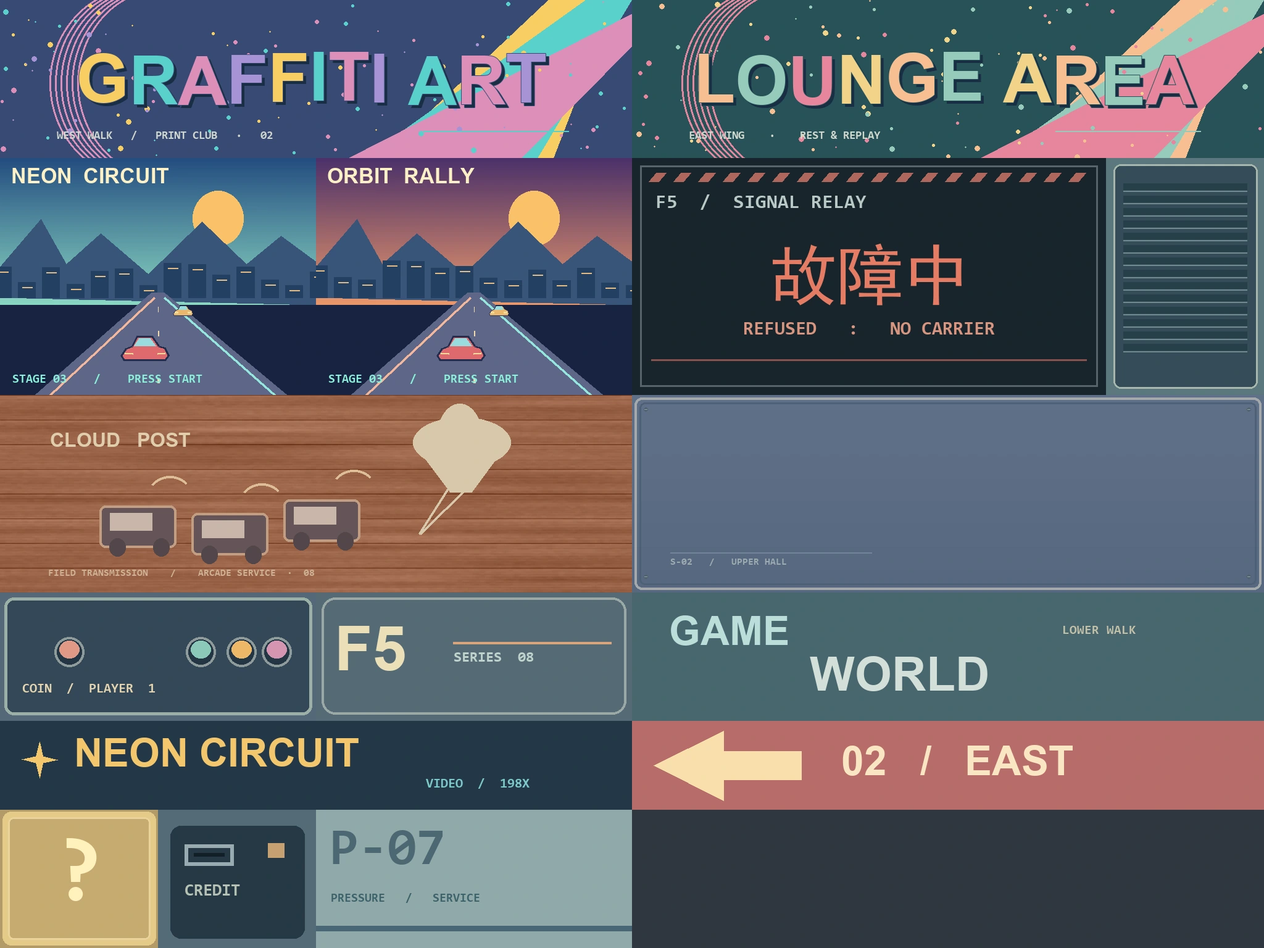
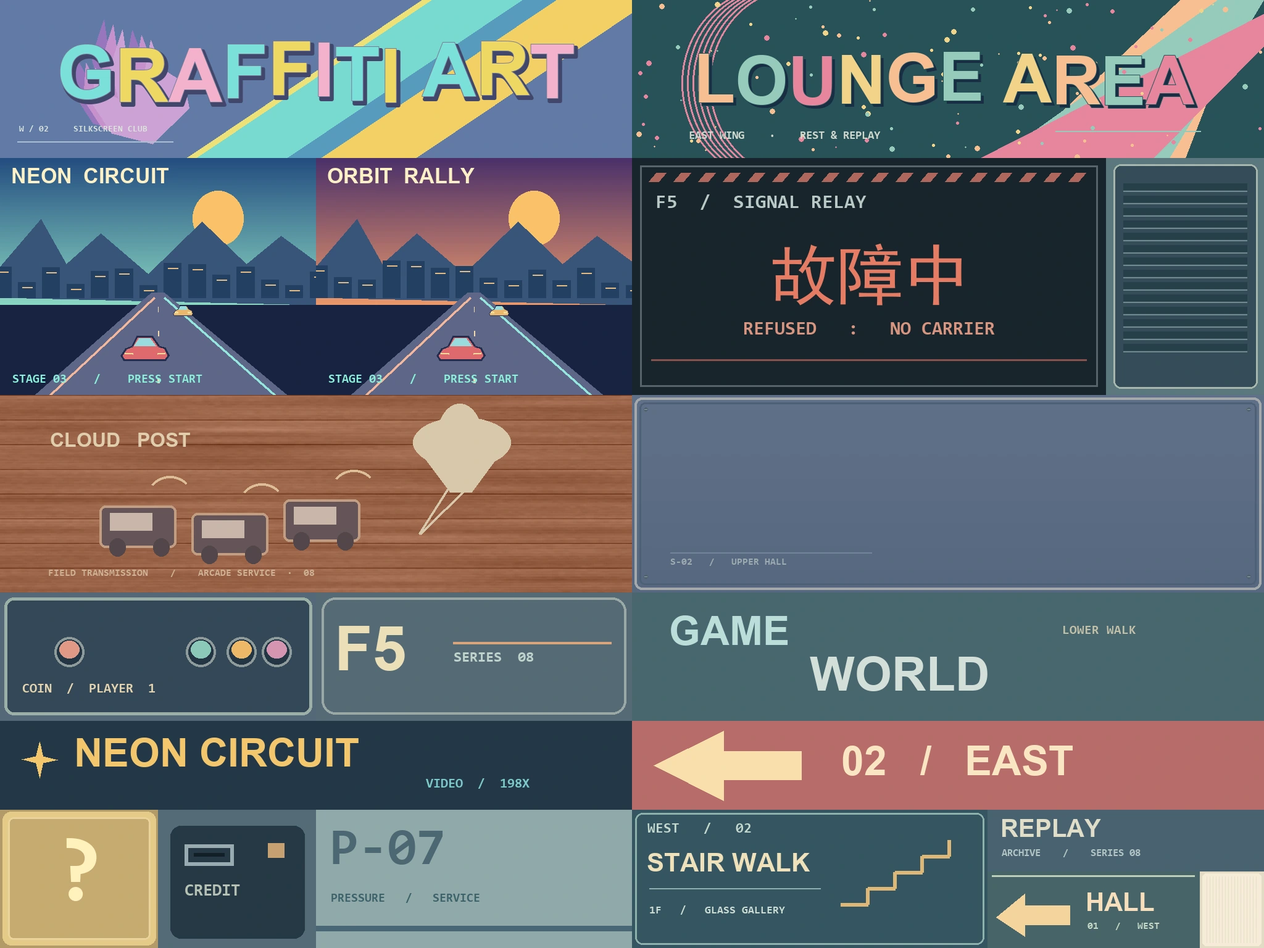
Rebuild the arcade west passage and window lane around the walkable stair

Changed region(s): [[0.0, 0.0, 0.5, 0.1875], [0.5, 0.8438, 1.0, 1.0]]

diff --git a/src/mmdVrShowcase/scenery/arcade/westGallery.ts b/src/mmdVrShowcase/scenery/arcade/westGallery.ts
@@ -1,0 +1,70 @@
+// The red passage is under the sign; the display windows face the return
+// lane on the far side of the stair. Keep the turn at the foot of the stair open.
+type Piece={x:number;y:number;z:number;w:number;h:number;d:number;ink:string;tag:string;roll?:number};
+const solids:Piece[]=[],skins:Piece[]=[];
+const box=(list:Piece[],tag:string,x:number,y:number,z:number,w:number,h:number,d:number,ink:string,roll=0)=>list.push({tag,x,y,z,w,h,d,ink,roll});
+const body=(tag:string,x:number,y:number,z:number,w:number,h:number,d:number,ink:string)=>box(solids,tag,x,y,z,w,h,d,ink);
+const edge=(x:number,y:number,z:number,w:number,h:number,d:number,ink:string,roll=0)=>box(skins,'trim',x,y,z,w,h,d,ink,roll);
+
+const enamel='#b96358',lip='#cf806a',blue='#527486',steel='#454f61';
+export const lastRiser={x:10.255,z:1.50,w:1.97};
+export const gallerySign={x:9.30,y:3.93,z:6.32,w:3.50,h:1.12,d:.18};
+const s=gallerySign;
+body('west-sign',s.x,s.y,s.z,s.w,s.h,s.d,'#505771');
+for(const x of [7.80,10.80])edge(x,3.46,6.23,.10,.57,.17,steel);
+
+body('west-spine',11.11,1.57,4.06,.26,3.14,5.2,'#568082');
+body('west-transom',12.66,2.783,1.66,2.65,.766,.16,'#536a75');
+// Use the tall back face of the top step as a service panel. The actual
+// path turns at its left edge towards the side doors; no false door here.
+edge(lastRiser.x,1.55,1.526,1.75,2.78,.045,'#4b626c');
+edge(lastRiser.x,1.54,1.555,1.57,2.60,.023,'#72908a');
+for(const x of [9.57,10.94])edge(x,1.50,1.575,.035,2.42,.025,'#95a79a');
+for(const z of [5.48,2.37]){
+  for(const [x,side] of [[7.29,1],[10.87,-1]]){
+    body('west-portal',x,1.28,z,.19,2.56,.26,enamel);
+    body('west-shoe',x,.115,z,.31,.23,.39,'#a25c55');
+    edge(x,1.38,z+.135,.112,2.25,.019,lip);
+    edge(x+side*.137,2.60,z,.13,.44,.24,enamel,-side*Math.PI/4);
+  }
+  body('west-portal',(7.29+10.87)/2,2.84,z,3.77,.56,.26,enamel);
+  edge(9.08,2.60,z+.138,3.38,.047,.021,lip);
+}
+
+// The seat, casing and display depth all take real floor space. Their small
+// fittings stay in the visual batch instead of becoming collision triangles.
+body('west-seat',10.67,.41,4.0,.56,.14,2.0,'#929993');
+for(const z of [3.25,4.75]){body('west-seat-foot',10.70,.18,z,.34,.36,.12,steel);edge(10.88,.49,z,.052,.46,.08,steel);}
+edge(10.89,.73,4.0,.077,.29,2.0,'#9da8a1');
+for(const x of [10.49,10.65,10.81])edge(x,.49,4,.14,.018,1.98,'#b6aaa1');
+export const displays=[-3.21,-1.65,-.09];
+for(const [i,z] of displays.entries()){
+  body('west-vitrine',13.64,1.28,z,.40,2.56,1.54,blue);
+  body('west-plinth',13.33,.15,z,.26,.30,1.53,'#586e76');
+  edge(13.405,.42,z,.082,.76,1.52,'#435d70');
+  edge(13.34,.83,z,.22,.085,1.53,'#95aaa8');edge(13.37,2.34,z,.18,.12,1.53,steel);
+  for(const off of [-.742,.742])edge(13.37,1.58,z+off,.18,1.42,.036,'#859ca1');
+  for(const h of [1.05,1.50])edge(13.32,h,z,.23,.034,1.43,'#859c9b');
+  for(let j=0;j<3;j++){
+    const cz=z-.46+j*.43;
+    edge(13.29,1.20,cz,.15,.26,.29,['#b99c77','#7596a5','#927b88'][(i+j)%3]);
+    edge(13.32,1.64,cz,.16,.24,.23,steel);
+  }
+}
+// Lay in ceiling coffers and recessed opal lights. Viewed from the far
+// doorway the repeating fixtures lead the eye back towards the forecourt.
+export const diffusers:{x:number;y:number;z:number}[]=[];
+for(const [x,start,end,width,ceiling] of [[9.14,1.5,6.65,4.12,3.14],[8.13,-4.5,1.50,2.18,3.14],[12.60,-4.32,4.38,2.64,3.17]]){
+  for(let z=start+.42;z<end;z+=.86)edge(x,ceiling-.032,z,width,.056,.035,steel);
+  for(const t of [-.25,.25])edge(x+width*t,ceiling-.044,(start+end)/2,.033,.062,end-start,steel);
+  for(let z=start+1;z<end-.3;z+=2.56){edge(x,ceiling-.079,z,.55,.082,1.21,'#5c6871');diffusers.push({x,z,y:ceiling-.125});}
+}
+// Printed-metal fascias have a relief chevron rather than a solid beam over the view.
+for(let i=0;i<5;i++){
+  const x=11.42+i*.51;
+  for(const side of [-1,1])edge(x+side*.072,3.26,-4.38,.029,.216,.032,'#a4b8b4',side*-.58);
+}
+// Narrow electrical trunk and service boxes at the turn, clear of the stair landing.
+for(const x of [7.84,8.34]){edge(x,2.08,-5.453,.42,.56,.063,'#455e69');edge(x,2.10,-5.409,.35,.44,.035,'#859b9b');edge(x,1.54,-5.447,.034,.54,.043,'#59727b');}
+edge(8.09,1.28,-5.448,.53,.033,.038,'#59727b');
+export const westGallery={solids,skins};

diff --git a/src/mmdVrShowcase/scenery/arcade/ArcadeHall.tsx b/src/mmdVrShowcase/scenery/arcade/ArcadeHall.tsx
@@ -2,9 +2,10 @@ import {useEffect,useLayoutEffect,useMemo,useRef} from 'react';
 import {BoxGeometry,CanvasTexture,Color,DoubleSide,InstancedMesh,Matrix4,MeshStandardMaterial,SRGBColorSpace} from 'three';
 import {blocks,board,cabinets,opening,skylight,lowerPad,upperPad,UPPER,ROOF,upperFrontZ,lowerFrontZ,frontLip} from './arcadeLayout';
 import {ArcadePrints} from './ArcadePrints';
+import {westGallery} from './westGallery';
 
-type Piece={x:number;y:number;z:number;w:number;h:number;d:number;ink:string};
-const trim:Piece[]=[];
+type Piece={x:number;y:number;z:number;w:number;h:number;d:number;ink:string;roll?:number};
+const trim:Piece[]=[...westGallery.skins];
 const add=(x:number,y:number,z:number,w:number,h:number,d:number,ink:string)=>trim.push({x,y,z,w,h,d,ink});
 // Separate decorative skins from solids. One instance batch for each; all
 // dimensions below are colours and edge profiles, not an extra walking layer.
@@ -27,6 +28,11 @@ const rim=(hole:typeof opening,y:number,ink:string)=>{
 };
 for(const y of [UPPER+.004,UPPER-.275])rim(opening,y,'#eb9978');
 rim(skylight,ROOF-.245,'#c9826e');
+// Return the cladding around the exposed ends of the side walls. Otherwise
+// the plaster and skirting end caps occupy the same Z plane at the corner.
+for(const [z,base,h] of [[lowerFrontZ,0,UPPER-.27],[upperFrontZ,UPPER,ROOF-UPPER-.24]])for(const side of [-1,1]){
+  add(side*7.074,base+h/2,z+.067,.151,h,.193,'#60908c');
+}
 // The front is pale below, blue-grey *above* the floor line; the wood back
 // can be inspected by walking around either end. Both skins share one core.
 add(0,UPPER/2,board.z+.123,board.w-.08,UPPER,.012,'#d0c5ad');
@@ -62,7 +68,6 @@ for(const z of [-2.04,1.87])add(-13.33,1.73,z,.86,.051,1.32,'#d7dac1');
 for(let i=0;i<10;i++)add(-14.54+i*.63,2.67,-5.44,.054,.19,.13,'#446568');
 add(-10.6,.54,-5.44,2.57,2.39,.043,'#4e686e');add(-10.6,.52,-5.407,2.27,2.19,.03,'#778482');
 for(let i=0;i<5;i++)add(-10.6,.07+i*.31,-5.375,2.17,.029,.025,'#607875');
-for(let i=0;i<6;i++)add(12.61,3.00,-3.86+i*1.5,2.63,.16,.11,'#4f626b');
 for(const x of [11.65,13.60])add(x,.69,1.33,.09,.37,.13,'#756d65');
 add(12.62,.81,1.33,2.37,.25,.17,'#94816e');
 for(const x of [-3.8,3.8]){add(x,1.24,12.823,1.76,2.48,.035,'#857f7d');add(x,1.21,12.80,1.50,2.29,.022,'#986f59');}
@@ -77,8 +82,8 @@ function Batch({pieces,solid}:{pieces:readonly Piece[];solid:boolean}){
   const ref=useRef<InstancedMesh>(null);
   const [g,m]=useMemo(()=>[new BoxGeometry(),new MeshStandardMaterial({roughness:.88})] as const,[]);
   useEffect(()=>()=>{g.dispose();m.dispose();},[g,m]);
-  useLayoutEffect(()=>{const im=ref.current!,mat=new Matrix4(),ink=new Color();
-    pieces.forEach((b,i)=>{im.setMatrixAt(i,mat.makeScale(b.w,b.h,b.d).setPosition(b.x,b.y,b.z));im.setColorAt(i,ink.set(b.ink));});
+  useLayoutEffect(()=>{const im=ref.current!,mat=new Matrix4(),rotation=new Matrix4(),ink=new Color();
+    pieces.forEach((b,i)=>{mat.makeScale(b.w,b.h,b.d);if(b.roll)mat.premultiply(rotation.makeRotationZ(b.roll));im.setMatrixAt(i,mat.setPosition(b.x,b.y,b.z));im.setColorAt(i,ink.set(b.ink));});
     im.instanceMatrix.needsUpdate=true;im.instanceColor!.needsUpdate=true;im.computeBoundingSphere();
   },[pieces]);
   return <instancedMesh ref={ref} args={[g,m,pieces.length]} name={solid?'arcade:solids':'arcade:skins'} userData={{playerCollision:solid}} receiveShadow/>;

diff --git a/src/mmdVrShowcase/scenery/arcade/paintedShell.ts b/src/mmdVrShowcase/scenery/arcade/paintedShell.ts
@@ -1,6 +1,7 @@
 import {BufferGeometry,Color,Float32BufferAttribute} from 'three';
 import {blocks,board,cabinets,ROOF,UPPER,skylight,lowerFrontZ,upperFrontZ,cladding} from './arcadeLayout';
 import layout from './printRects.json';
+import {diffusers,displays,gallerySign,lastRiser} from './westGallery';
 
 type V=[number,number,number];type Face={o:V;u:V;v:V};type Rect=readonly number[];
 // Origin at bottom left when viewed from outside. Floor UV axes are +X/-Z.
@@ -51,6 +52,13 @@ export function arcadePaint(){
     if(tag==='east-retaining')tile(xFace(x+w/2+.003,y,z,d,h),3,1.65,3.30);
     if(tag==='west-shelter-back')tile(xFace(x-w/2-.004,y,z,d,h,-1),2,2.23,2.23);
     if(tag==='west-glass')tile(zFace(x,y,z-d/2-.004,w,h,-1),7,2.7,2.4);
+    if(tag==='west-spine')for(const s of [-1,1])tile(xFace(x+s*(w/2+.003),y,z,d,h,s),2,2.38,2.17,s===-1?'#6d9e9b':'#66839a');
+    if(tag==='west-end-wall')tile(zFace(x,y,z+d/2+.004,w,h),2,2.38,2.17,'#82a49e');
+    if(tag==='west-side'||tag==='west-walk'||tag==='west-shelter-roof')tile(deck(x,bot-.003,z,w,d,false),2,1.70,1.72,'#afb5b0');
+    if(tag==='west-step'){
+      tile(zFace(x,top-.085,z-d/2-.003,w,.17,-1),2,2.48,1.70,'#8698a5');
+      for(const side of [-1,1])tile(xFace(x+side*(w/2+.002),y,z,d,h,side),2,2.6,2.2,'#9ab0b4');
+    }
     if(tag==='west-bench')tile(deck(x,top+.006,z,w,d),4,1.65,.83);
     if(tag==='upper-shutter'||tag==='back-shutter')tile(zFace(x,y,z+d/2+.006,w,h),5,2.6,1.13);
   }
@@ -58,8 +66,24 @@ export function arcadePaint(){
   tile(zFace(0,UPPER/2,board.z+.133,board.w-.09,UPPER-.09),2,2.17,3.4);
   art('blueboard',zFace(0,UPPER+.595,board.z+.142,board.w-.15,1.04));
   art('wood',zFace(0,UPPER+.60,board.z-.138,board.w-.13,1.14,-1));
-  art('graffiti',zFace(9.93,UPPER+.53,6.408,2.55,.76));art('lounge',xFace(-12.48,2.09,.10,3.4,.44));
+  const sign=gallerySign;
+  for(const side of [-1,1])art('graffiti',zFace(sign.x,sign.y,sign.z+side*(sign.d/2+.004),sign.w-.09,sign.h-.09,side));
+  art('lounge',xFace(-12.48,2.09,.10,3.4,.44));
   art('direction',zFace(3.93,UPPER+2.44,4.688,1.54,.45));art('game',zFace(12.62,1.54,1.548,2.14,.40,-1));
+  art('game',xFace(10.971,1.50,4.0,1.65,.40,-1));
+  art('vents',zFace(lastRiser.x,1.00,lastRiser.z+.072,1.07,1.12));
+  art('turn',zFace(lastRiser.x,2.21,lastRiser.z+.074,1.35,.46));
+  for(const {x,y,z} of diffusers)art('diffuser',deck(x,y,z,.46,1.1,false),true);
+  art('stairMap',zFace(10.15,1.41,-5.474,2.08,.78));
+  for(const [i,z] of displays.entries()){
+    tile(xFace(13.435,1.59,z,1.46,1.40,-1),7,1.81,1.42,'#8ea1b5');
+    art('service',xFace(13.360,.54,z,1.22,.34,-1));
+    for(let j=0;j<3;j++){
+      const cz=z-.46+j*.43;
+      art((i+j)%2?'racerB':'racerA',xFace(13.210,1.20,cz,.255,.227,-1));
+      art('vents',xFace(13.236,1.635,cz,.20,.19,-1));
+    }
+  }
   for(const [i,b] of cabinets.entries()){
     const {x,y,z,side,style}=b,fault=style==='fault',w=fault?1.13:.66,fx=x+side*.39;
     if(style==='vent'){art('vents',xFace(fx,y+.89,z,.66,1.47,side));continue;}

diff --git a/src/mmdVrShowcase/scenery/arcade/arcadeLayout.ts b/src/mmdVrShowcase/scenery/arcade/arcadeLayout.ts
@@ -1,4 +1,6 @@
-// Prototype dimensions in metres, not measurements from the game. Facing the
+import {westGallery} from './westGallery';
+
+// Stage dimensions in metres, not measurements from the game. Facing the
 // twin front doors from outside, east/LOUNGE is on the left (-X), west on +X.
 export const UPPER = 3.4, ROOF = 6.65;
 // Face the building from +Z. The setback is upstairs only: the strip is
@@ -38,7 +40,8 @@ ring('roof',skylight,ROOF,.24,'#475876',false);
 slab('balcony',-7,7,upperFrontZ,frontLip,UPPER,.27,'#829396');
 slab('west-walk',7,11.25,1.5,frontLip,UPPER,.26,'#708496');
 slab('east-balcony',-8.7,-7,-4.45,frontLip,UPPER,.26,'#738e88');
-for(let i=0;i<20;i++)slab('west-step',9.27,11.24,1.5-(20-i)*.31,1.5-(19-i)*.31,(i+1)*UPPER/20,.18,'#84909d');
+// Solid stair cheek between the covered passage and the blue window lane.
+for(let i=0;i<20;i++)slab('west-step',9.27,11.24,1.5-(20-i)*.31,1.5-(19-i)*.31,(i+1)*UPPER/20,(i+1)*UPPER/20,'#818c99');
 
 // Split every wall at its actual door(s), including the header above each.
 type Axis='x'|'z';
@@ -75,11 +78,10 @@ for(const x of [-2.24,2.24]){
 }
 export const board=block('board',0,0,-1.67,6.57,UPPER+1.22,.24,'#aa957c');
 // Under the sign is a real lower passage; no solid front wall across it.
-block('gallery-post',10.95,0,3.98,.35,UPPER,.42,'#577483');
+boxes.push(...westGallery.solids);
 block('west-glass',12.66,0,1.66,2.65,2.4,.16,'#577785');
 block('west-bench',12.62,0,1.10,2.38,.48,.56,'#8a7970');
-block('west-sign',9.93,UPPER,6.33,2.63,1.02,.14,'#405774');
-block('west-sign-rail',7.78,UPPER,6.32,1.56,.82,.18,'#506b74');
+block('west-sign-rail',7.26,UPPER,6.32,.58,.82,.18,'#506b74');
 block('lounge-kiosk',-14.15,-.68,.10,1.34,3.12,5.72,'#416967');
 block('lounge-canopy',-13.42,1.84,.10,1.72,.20,5.94,'#7ca598');
 block('tank-base',-13.66,2.44,-1.31,1.46,.57,1.68,'#486569');

diff --git a/src/mmdVrShowcase/scenery/arcade/ArcadePrints.tsx b/src/mmdVrShowcase/scenery/arcade/ArcadePrints.tsx
@@ -22,6 +22,15 @@ const hallFinish:MeshStandardMaterial['onBeforeCompile']=shader=>{
     float walls=min(7.-abs(a.x),min(front-a.y,4.5+a.y));contact=max(contact,.19*exp(-max(0.,walls)*3.));
     float shade=(1.-ground)*(.08+.16*(1.-smoothstep(.0,.95,walls)));
     diffuseColor.rgb*=1.-hall*(ground*contact+shade);
+    // Contact colour under the west decks, including when real shadows are
+    // off on Quest. Fade it out at each open end and below the upper walk.
+    float aisle=smoothstep(7.0,7.42,a.x)*(1.-smoothstep(10.96,11.24,a.x))*smoothstep(-4.6,-3.5,a.y)*(1.-smoothstep(5.15,6.65,a.y));
+    float caseLane=smoothstep(11.18,11.68,a.x)*(1.-smoothstep(13.83,14.06,a.x))*smoothstep(-4.5,-3.45,a.y)*(1.-smoothstep(3.05,4.42,a.y));
+    float under=1.-smoothstep(3.18,3.38,arcLocal.y);
+    diffuseColor.rgb*=vec3(1.)-under*(aisle*vec3(.19,.23,.23)+caseLane*vec3(.30,.23,.17));
+    float wallFoot=min(abs(a.x-7.15),abs(a.x-10.98));
+    vec2 bench=max(abs(a-vec2(10.67,4.0))-vec2(.27,.99),vec2(0.));
+    diffuseColor.rgb*=1.-aisle*(1.-smoothstep(.03,.43,arcLocal.y))*max(.26*(1.-smoothstep(.04,.58,wallFoot)),.34*(1.-smoothstep(.02,.72,length(bench))));
     #if NUM_DIR_LIGHT_SHADOWS == 0
       vec2 shaft=abs(a-vec2(1.35,-.45));float day=(1.-smoothstep(2.38,2.82,shaft.x))*(1.-smoothstep(1.06,1.42,shaft.y));
       diffuseColor.rgb*=1.+hall*ground*(.05+day*.27);

diff --git a/src/mmdVrShowcase/scenery/arcade/arcadeLayout.test.ts b/src/mmdVrShowcase/scenery/arcade/arcadeLayout.test.ts
@@ -31,6 +31,17 @@ it('has two independently addressable feet, with different occluders, at the sam
   for(const y of [0,UPPER])expect(visiblePick(room,{x:0,y:y+.92,z:.7},0,y,-3.2)).toBe(false);
 });
 
+it('keeps the passage, inside turn and window bay placeable, with a solid wall and stair between the aisles',()=>{
+  for(const [x,z] of [[9.03,4.08],[8.14,-2.65],[8.18,-4.96],[10.22,-5.02],[12.27,-2.42]])expect(arcadePlace(x,0,z),`${x},${z}`).toBe(true);
+  expect(arcadePlace(10.66,0,4.0)).toBe(false); // corridor bench
+  expect(arcadePlace(10.2,0,-.1)).toBe(false); // stair cheek, not an underpass
+  expect(arcadePlace(13.65,0,-1.65)).toBe(false);
+  expect(arcadePlace(13.15,0,-1.65)).toBe(false); // heel would clip the projecting display shelf
+  expect(arcadeSight({x:8.16,y:1.65,z:-2.8},8.16,0,-4.95)).toBe(true);
+  expect(arcadeSight({x:8.16,y:1.65,z:-.1},12.27,0,-.1)).toBe(false);
+  expect(arcadeSight({x:9,y:1.65,z:4},12.20,0,4)).toBe(false);
+});
+
 it('passes through the aperture, keeps a marginal foot supported, then falls only after leaving the lip',()=>{
   const root=new Group(),mesh=new InstancedMesh(new BoxGeometry(),new MeshBasicMaterial(),blocks.length);
   blocks.forEach((b,i)=>mesh.setMatrixAt(i,new Matrix4().makeScale(b.w,b.h,b.d).setPosition(b.x,b.y,b.z)));root.add(mesh);

diff --git a/src/i18n/en.ts b/src/i18n/en.ts
@@ -4,6 +4,7 @@ import type { ZhMessages } from "./zh";
 export const en: Record<keyof ZhMessages, string> = {
   arcPrintConsole:'Close-up · racing cabinets',arcPrintMural:'Close-up · timber mural',
   arcFrontWalk:'Upper door · looking along the front walk',
+  arcWestPortal:'West walk · under the print sign',arcWestStair:'West walk · windows and stair',
   chamberWheel:'Wheel and pillory gallery',chamberTown:'Dusk over the belfry',planetTransit:'Copper transit dome',planetSouth:'Southern beacon and moons',
   hudVelvetStudio:'Black Velvet Studio',velvetPortrait:'Velvet portrait mark',velvetLounge:'Chaise and dressing room',
   hudMedievalChamber:'Medieval Interrogation Chamber',chamberRecord:'At the clerk’s table',chamberVault:'Under the stone vault',

diff --git a/src/i18n/zh.ts b/src/i18n/zh.ts
@@ -2,6 +2,7 @@
 export const zh = {
   arcPrintConsole:'近看 · 双机台面',arcPrintMural:'近看 · 木板喷绘',
   arcFrontWalk:'二楼 · 沿正门平台望西',
+  arcWestPortal:'西廊 · 从涂鸦牌下进门',arcWestStair:'西廊 · 从橱窗回望外梯',
   chamberWheel:'刑轮与示众枷',chamberTown:'窗下看暮色钟楼',planetTransit:'铜穹观测站',planetSouth:'南极信标与远月',
   hudVelvetStudio:'黑绒私摄棚',velvetPortrait:'黑绒幕前人像',velvetLounge:'卧榻与更衣间',
   hudMedievalChamber:'中世纪刑讯室',chamberRecord:'书记案旁',chamberVault:'石拱审讯厅',

diff --git a/src/mmdVrShowcase/scenery/arcade/arcadeViews.ts b/src/mmdVrShowcase/scenery/arcade/arcadeViews.ts
@@ -18,4 +18,6 @@ export const arcadeView={entry:[[1.66,4.68,12.64],[0,3.04,frontLip-.46]],shots:[
   {key:'arcPrintConsole',eye:[4.89,UPPER+1.52,.57],aim:[6.08,UPPER+1.16,-.20]},
   {key:'arcPrintMural',eye:[-1.92,UPPER+1.48,-3.62],aim:[.09,UPPER+.63,-1.85]},
   {key:'arcFrontWalk',eye:[-6.42,UPPER+1.54,frontLip-.51],aim:[3.76,UPPER+.83,upperFrontZ+.78]},
+  {key:'arcWestPortal',eye:[9.10,1.65,11.90],aim:[8.85,2.26,4.10]},
+  {key:'arcWestStair',eye:[11.94,1.65,-5.04],aim:[10.88,1.72,-.16]},
 ]} as const;

diff --git a/src/mmdVrShowcase/scenery/arcade/bakePrints.py b/src/mmdVrShowcase/scenery/arcade/bakePrints.py
@@ -132,6 +132,26 @@ p,d=art('direction',(1024,1168,1024,144),'#b76c69');d.polygon([(35,72),(148,16),
 p,d=art('coin',(0,1312,256,224),'#b39b68');pill(d,(4,3,252,219),14,'#e4cb89');d.rounded_rectangle((13,12,243,210),9,fill='#c7ab70',outline='#ead39a',width=3);put(d,(128,111),'?',145,'#fff1be',True,mono=True,anchor='mm');paste('coin',p)
 p,d=art('coinPort',(256,1312,256,224),'#536b78');pill(d,(20,26,237,208),17,'#263946');d.rectangle((43,56,122,90),outline='#9aabb0',width=6);d.line((58,72,107,72),fill='#101f28',width=6);put(d,(43,118),'CREDIT',28,'#b6c1b3',True,mono=True);d.rectangle((178,54,204,77),fill='#c7a073');paste('coinPort',p)
 p,d=art('tank',(512,1312,512,224),'#91a9a9');d.line((0,192,512,192),fill='#496775',width=9);put(d,(22,24),'P-07',85,'#4c6772',True,mono=True);put(d,(24,134),'PRESSURE   /   SERVICE',20,'#3d626b',mono=True);paste('tank',p)
+# Sun-faded print with a curling ink plume and diagonal ribbons; draw the
+# face at its installed aspect ratio. The other side reads from the stair.
+p,d=art('graffiti',(0,0,1024,256),'#617ba6')
+for j,(shift,col) in enumerate([(0,'#eee178'),(16,'#78d9cf'),(163,'#589bbd'),(218,'#f3cf64')]):
+    x=302+shift;d.polygon([(x,256),(x+153,256),(x+534,0),(x+381,0)],fill=col)
+for j,col in enumerate(['#9976bd','#c591cd','#cda2d5']):
+    x=132+j*15;y=24+j*8;d.polygon([(x+85,y+193),(x+19,y+176),(x-12,y+129),(x-8,y+70),(x+15,y+113),(x+30,y+120),(x+16,y+69),(x+36,y+8),(x+45,y+71),(x+69,y+92),(x+82,y+25),(x+99,y+70),(x+136,y+94),(x+144,y+135)],fill=col)
+f=font(121,True);title='GRAFFITI ART';xx=(1024-f.getlength(title))/2
+for j,ch in enumerate(title):
+    yy=160+6*sin(j*1.13);d.text((xx+4,yy+5),ch,font=f,anchor='ls',fill='#41476b',stroke_width=3,stroke_fill='#41476b');d.text((xx,yy),ch,font=f,anchor='ls',fill=['#7be0da','#efd862','#f3b2cd'][j%3],stroke_width=1,stroke_fill='#767a99');xx+=f.getlength(ch)
+d.line((28,229,280,229),fill='#abbfd0',width=2);put(d,(31,202),'W / 02     SILKSCREEN CLUB',14,'#dce5dd',mono=True);paste('graffiti',p)
+p,d=art('stairMap',(1024,1312,576,224),'#365561');d.rounded_rectangle((5,5,570,218),12,outline='#8bb1ac',width=3);put(d,(25,19),'WEST   /   02',23,'#c4d9ce',mono=True);put(d,(24,61),'STAIR WALK',42,'#efe1bc',True)
+for i in range(4):
+    x=338+i*44;y=153-i*26;d.line((x,y,x+44,y,x+44,y-26),fill='#dfb777',width=6)
+d.line((28,127,305,127),fill='#8bb1ac',width=2);put(d,(28,154),'1F   /   GLASS GALLERY',18,'#ccddd5',mono=True);paste('stairMap',p)
+p,d=art('service',(1600,1312,448,100),'#496271');put(d,(21,7),'REPLAY',40,'#e0ddc8',True);put(d,(23,62),'ARCHIVE    /    SERIES 08',17,'#b3c5c5',mono=True);paste('service',p)
+p,d=art('turn',(1600,1412,344,124),'#486469');d.line((7,7,335,7),fill='#bdcfba',width=3);d.polygon([(14,74),(60,36),(60,55),(133,55),(133,86),(60,86),(60,105)],fill='#f5d49c');put(d,(159,25),'HALL',42,'#f7dfbc',True);put(d,(162,81),'01   /   WEST',16,'#c9dac8',mono=True);paste('turn',p)
+p,d=art('diffuser',(1944,1412,104,124),'#e3dbc5');d.rounded_rectangle((4,3,99,120),6,fill='#f5ebd7');
+for x in range(11,95,5):d.line((x,8,x,115),fill='#e7dec9',width=1)
+paste('diffuser',p)
 # Crop unused rows; use padding between sheets in the runtime UVs.
 sheet=sheet.crop((0,0,2048,1536));sheet.save(out/'hall-lettering.webp',quality=93,method=6)
 import json

diff --git a/docs/scenery/arcade-hall.md b/docs/scenery/arcade-hall.md
@@ -9,9 +9,15 @@
 - **从洞口换层**：屏幕选「游览机位 → 一楼 · 洞口通行标记」，点一下画面，按 **G**；VR 普通模式用左杆走进板旁黄框，按**左手 X**。再按一次可从上层黄框下去。出口或路径被挡住时不能换层。右手 A 仍是普通跳跃。
 - **沿外侧往返**：面对正门，左边是带条纹雨棚和球罐的东侧休息区，右边是涂鸦招牌、玻璃廊和西侧外梯。从外梯上楼可一路横走到东端。二楼正门前平台净宽约 **2 米**，一楼双门外墙与平台外沿齐平，平台下方也是大厅。[正面与平台纵向实景](./arcade-front-walk.webp)
 - **摆放角色**：从背包选择角色或物件，指向你实际看得见的地面，点击或松开扳机。上下层可以在相同平面坐标各放一件，不能隔着楼板或大板摆放。透过洞口能指到楼下。切景回来仍在原楼层。
-- **近看贴图**：17 个机位中，「近看 · 双机台面」看赛车屏和投币口，「近看 · 木板喷绘」看板背，「二楼 · 沿正门平台望西」看平台两端。「仰看 · 穿洞见天窗」适合检查上、下两个开口。
+- **近看贴图**：19 个机位中，「近看 · 双机台面」看赛车屏和投币口，「近看 · 木板喷绘」看板背，「二楼 · 沿正门平台望西」看平台两端。「仰看 · 穿洞见天窗」适合检查上、下两个开口。
 
 ![同机位灰模与贴图实景](./arcade-painted-views.webp)
+
+## 从西廊步行上楼
+
+选「西廊 · 从涂鸦牌下进门」，沿 **GRAFFITI ART** 下方的红框向里走，右手是长凳。到梯背的 **← HALL** 牌，往左侧门可以回大厅；沿楼梯侧壁一直走到尽头，绕过梯脚，另一侧就是蓝灰色橱窗。橱窗前有给角色留的站位，可以把陈列架和外梯同时拍进画面。从这里回头走外梯，不用按换层键就能上二楼正门平台。
+
+「西廊 · 从橱窗回望外梯」从另一端看同一段路。[牌下入口和橱窗梯脚实景](./arcade-west-walk.webp)。红框、顶灯、靠墙长凳和梯旁玻璃廊按西侧截图取景；橱窗里的小机盒、印刷招牌和导向图案为本舞台原创。
 
 ## 布景维护
 
@@ -19,6 +25,6 @@
 
 背包记录射线命中的支撑面高度 `supportY`，松开时和房间提交前都重验。换层沿洞中净空、板边和目标脚位检查人物净高；切区只重建一次房间，换层不卸载演员。[维护指南](./adding-a-set.md)
 
-[烘焙脚本](../../src/mmdVrShowcase/scenery/arcade/bakePrints.py)用 Pillow、NumPy 和系统字体重画四张 WebP，合计约 477 KiB，进入本景才请求。[表面网格](../../src/mmdVrShowcase/scenery/arcade/paintedShell.ts)按米制网格裁砖，不跨门洞。仓库中的[早期布局图](./arcade-blockout-views.webp)、现版对照和平台图均取自舞台自身，未使用原游戏截图作贴图。
+[烘焙脚本](../../src/mmdVrShowcase/scenery/arcade/bakePrints.py)用 Pillow、NumPy 和系统字体重画四张 WebP，合计约 483 KiB，进入本景才请求。[表面网格](../../src/mmdVrShowcase/scenery/arcade/paintedShell.ts)按米制网格裁砖，不跨门洞。[西廊构件](../../src/mmdVrShowcase/scenery/arcade/westGallery.ts)区分占地实体与小配件，灯片、包装和玻璃共用现有图集和绘制批次。仓库中的[早期布局图](./arcade-blockout-views.webp)、各版机位和平台图均取自舞台自身。
 
 **验证范围**：屏幕实点与模拟 Quest 扳机检查同一 XZ 换层放置、穿板拒绝及回场恢复；摇杆实走门前平台东西往返，地面／二楼眼高为 1.65／5.05 米。已检查 WebGL 着色器；Quest 3S 真机的尺寸感、舒适度和帧率还需实测。

diff --git a/docs/HANDOFF.md b/docs/HANDOFF.md
@@ -6,7 +6,7 @@
 
 ## 下次从这里开始
 
-**新地图真机短验：** [在准备页选好电玩厅](https://mmd-xr-stage.pages.dev/?set=arcadeHall)，进 VR 后从双门走到板旁黄框，左手 X 上楼；横走平台、从洞口回到大厅。试玩时留意洞沿和板面，不必重新跑整套性能基准。
+**新地图真机短验：** [在准备页选好电玩厅](https://mmd-xr-stage.pages.dev/?set=arcadeHall)，从西侧涂鸦牌下穿红框，沿外梯侧面绕到橱窗，在窗前摆人，再走外梯上二楼。沿平台回正门，进厅站进板旁黄框，左手 X 回一楼。留意梯脚转弯、洞沿尺寸感和近眼舒适度。
 
 **`37a0ef3` 真机报告已收到。** 星球空场两次进入，B 正常但不能行走或转向，21 个采样窗中位 117 FPS；当时未记录摇杆输入。教室单角色同一趟首访播放，关／开物理的窗口中位数 64／42 FPS；首次开启 949 ms 中 893 ms 等模块，泳池回教室 8.74 秒中 6.26 秒等超限身体动作。[下次短测](./performance/next-quest-export.md)：先在新页立即试星球两根摇杆，教室另测同一大动作回场和首次开物理。稳定 72 FPS 仍未获真机验证。
 
